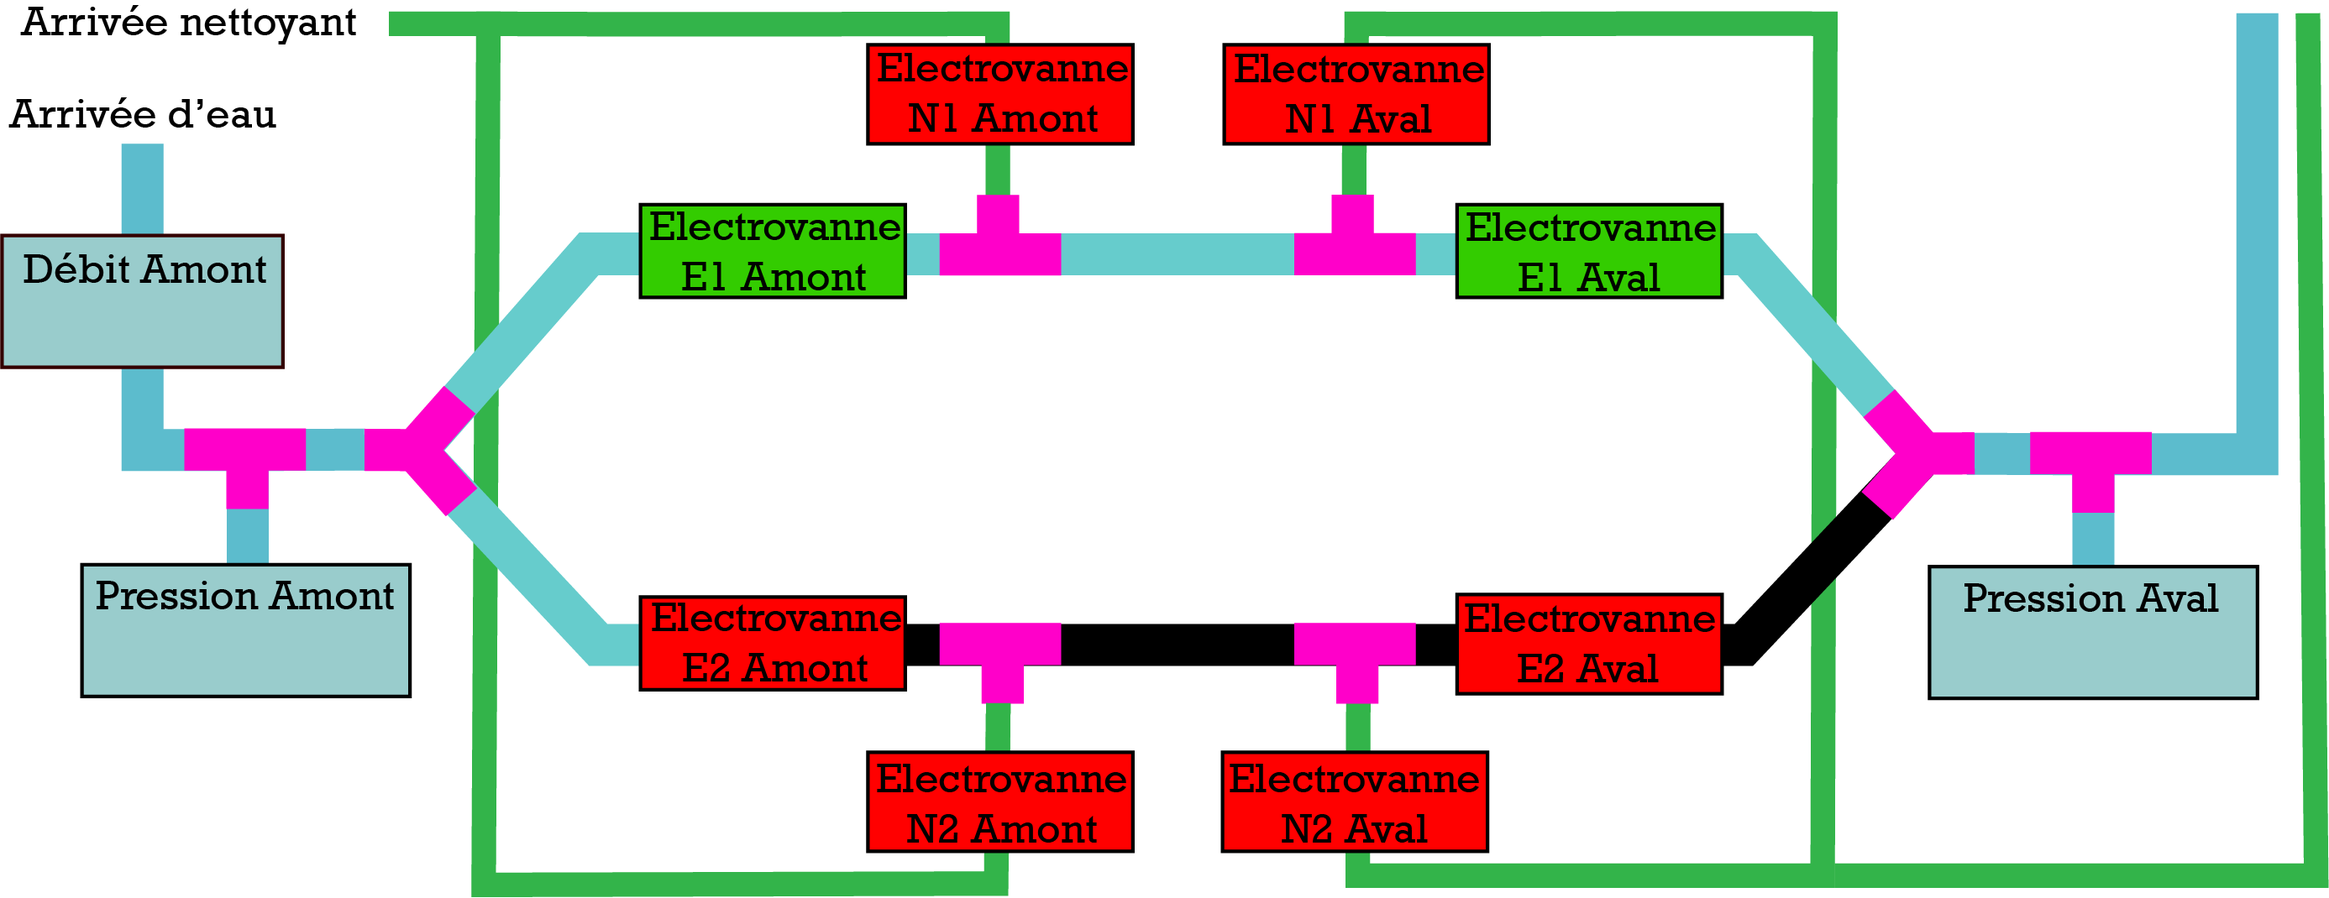
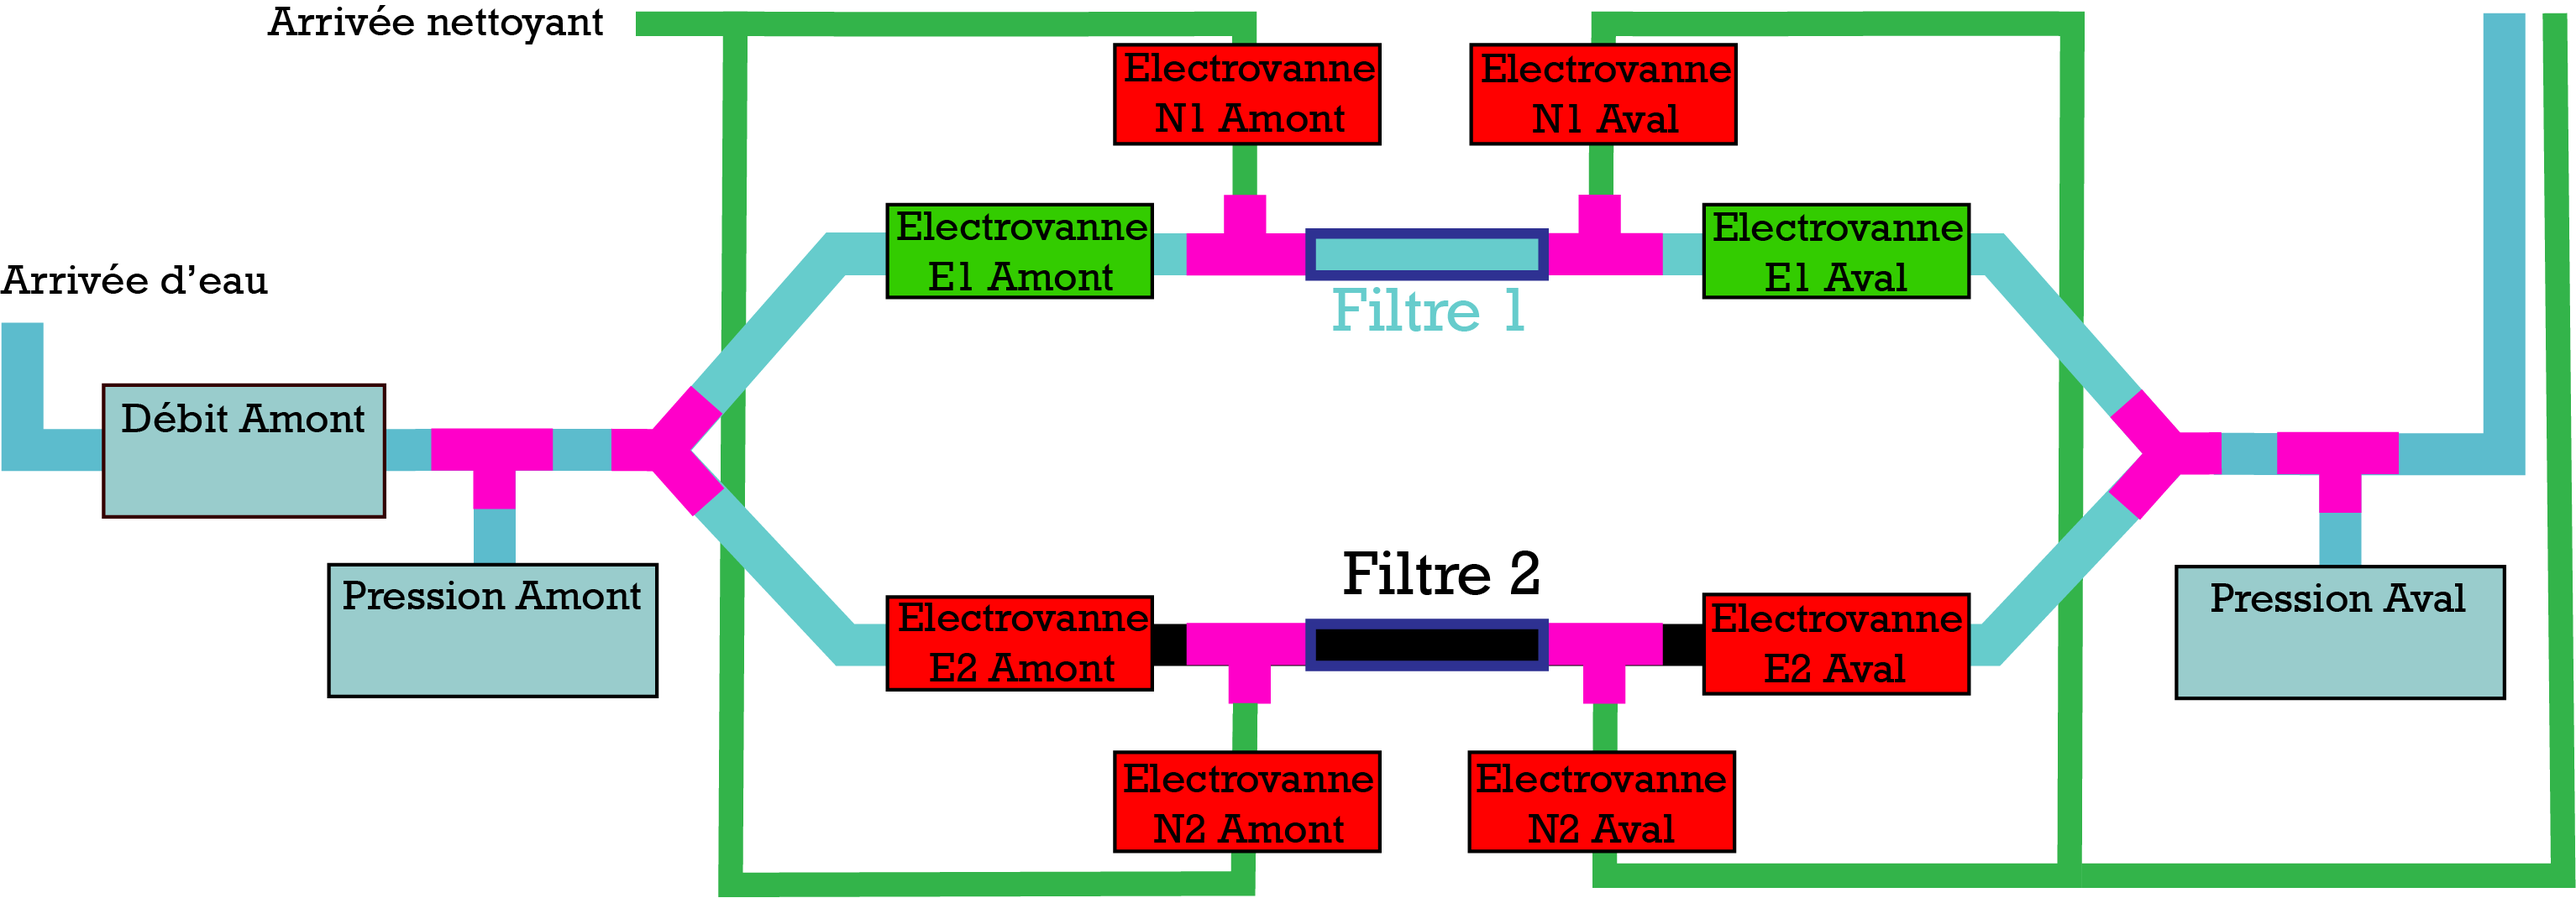
Added Control page

Changed region(s): [[0.0, 0.0, 0.9924, 1.0], [0.9614, 0.0, 0.9924, 0.5243]]

diff --git a/Front-end/src/views/Control.vue b/Front-end/src/views/Control.vue
@@ -1,0 +1,108 @@
+<template>
+  <div class="Overview">
+    <p class="title_cp">Control Pannel</p>
+
+    <div>
+      <p class="title_cp2">Filter 1</p>
+      <hr style="padding: 0;" />
+      <!-- <b-form-select v-model="selected" :options="options" class="mb-3">
+        <template #first>
+          <b-form-select-option :value="null" disabled
+            >-- Please select an option --</b-form-select-option
+          >
+        </template>
+      </b-form-select> -->
+
+      <b-form-group
+        label="Select flow"
+        v-slot="{ ariaDescribedby }"
+        class="left"
+      >
+        <b-form-checkbox-group
+          v-model="selected_F1"
+          :options="options_F1"
+          :aria-describedby="ariaDescribedby"
+          buttons
+          button-variant="primary"
+          size="lg"
+          name="buttons-2"
+          class="center"
+        ></b-form-checkbox-group>
+      </b-form-group>
+
+      <p class="title2">Filter 2</p>
+      <hr style="padding: 0;" />
+      <b-form-group
+        label="Select flow"
+        v-slot="{ ariaDescribedby }"
+        class="left"
+      >
+        <b-form-checkbox-group
+          v-model="selected_F2"
+          :options="options_F2"
+          :aria-describedby="ariaDescribedby"
+          buttons
+          button-variant="primary"
+          size="lg"
+          name="buttons-2"
+          class="center"
+        ></b-form-checkbox-group>
+      </b-form-group>
+
+      <hr style="padding: 0;" />
+      <b-button variant="danger" style="text-align: right" size="lg"
+        >Reboot system</b-button
+      >
+    </div>
+  </div>
+</template>
+
+<script>
+export default {
+  name: "Control",
+  data() {
+    return {
+      selected_F1: "F1_Water",
+      options_F1: [
+        { value: "F1_Water", text: "Water" },
+        { value: "F1_Clean", text: "Cleaning solution" },
+        { value: "F1_None", text: "None" }
+      ],
+      selected_F2: "F2_Clean",
+      options_F2: [
+        { value: "F2_Water", text: "Water" },
+        { value: "F2_Clean", text: "Cleaning solution" },
+        { value: "F2_None", text: "None" }
+      ]
+    };
+  }
+};
+</script>
+
+<style>
+.title_cp {
+  font-family: Monaco, monospace !important;
+  font-size: 30px;
+  font-weight: bold;
+  margin-bottom: -2%;
+}
+
+.title_cp2 {
+  font-family: Monaco, monospace !important;
+  font-size: 25px;
+  text-align: left;
+  margin: 2%;
+  margin-bottom: -2%;
+}
+
+.active {
+  background: rgb(5, 42, 77) !important;
+}
+
+.left {
+  position: left;
+  text-align: left;
+  margin: 2%;
+  margin-top: -1%;
+}
+</style>

diff --git a/Front-end/src/views/Overview.vue b/Front-end/src/views/Overview.vue
@@ -1,8 +1,9 @@
 <template>
   <div class="Overview">
-    <img alt="Diagram" src="../assets/F1_Eau.png" class="diagram" />
+    <p class="title">System overview</p>
+    <img alt="Diagram" src="../assets/F1_Eau_F2_Eau.png" class="diagram" />
     <!-- Absolute positionning of values -->
-    <div class="debit-amont">{{ debit_amont }} L³/s</div>
+    <div class="debit-amont">{{ debit_amont }} M³/s</div>
     <div class="pression-amont">{{ pression_amont }} BAR</div>
     <div class="pression-aval">{{ pression_aval }} BAR</div>
   </div>
@@ -24,7 +25,7 @@ export default {
 <style scoped>
 .diagram {
   max-width: 100%;
-  margin-top: 7%;
+  margin-top: 0%;
 }
 
 .text {
@@ -36,20 +37,21 @@ export default {
 
 .debit-amont {
   position: relative;
-  top: -210px;
+  top: -212px;
   left: -44%;
   margin: 0;
   font-family: Monaco, monospace !important;
   font-weight: bold;
   font-size: 22px;
-  letter-spacing: -4px;
+  letter-spacing: -1px;
+  word-spacing: -5px;
   color: green;
 }
 
 .pression-amont {
   position: relative;
-  top: -132px;
-  left: -316px;
+  top: -136px;
+  left: -315px;
   margin: 0;
   font-family: Monaco, monospace !important;
   font-weight: bold;
@@ -60,13 +62,19 @@ export default {
 
 .pression-aval {
   position: relative;
-  top: -169px;
-  left: 320px;
+  top: -173px;
+  left: 319px;
   margin: 0;
   font-family: Monaco, monospace !important;
   font-weight: bold;
   font-size: 25px;
   word-spacing: -10px;
   color: red;
+}
+
+.title {
+  font-family: Monaco, monospace !important;
+  font-size: 30px;
+  font-weight: bold;
 }
 </style>

diff --git a/Front-end/src/components/Navbar.vue b/Front-end/src/components/Navbar.vue
@@ -2,7 +2,7 @@
   <div class="Navbar">
     <!-- Just an image -->
     <b-navbar variant="info" type="dark">
-      <b-navbar-brand>
+      <b-navbar-brand class="brand">
         <img
           alt="Biostart logo"
           src="../assets/Logo-biostart.png"
@@ -13,6 +13,9 @@
         <router-link to="/monitoring" class="nav-text">Monitoring</router-link>
         <router-link to="/overview" class="nav-text" style="margin-left: 20px"
           >Overview</router-link
+        >
+        <router-link to="/control" class="nav-text" style="margin-left: 20px"
+          >Control</router-link
         >
       </b-navbar-nav>
 
@@ -80,5 +83,9 @@ export default {
   color: #000000 !important;
   font-size: 20px;
   font-family: Monaco, monospace !important;
+}
+
+.brand {
+  margin: 0;
 }
 </style>

diff --git a/Front-end/src/router/index.js b/Front-end/src/router/index.js
@@ -1,6 +1,7 @@
 import Vue from "vue";
 import VueRouter from "vue-router";
 import Monitoring from "../views/Monitoring.vue";
+import Control from "../views/Control.vue";
 
 Vue.use(VueRouter);
 
@@ -23,6 +24,11 @@ const routes = [
     // which is lazy-loaded when the route is visited.
     component: () =>
       import(/* webpackChunkName: "about" */ "../views/Overview.vue")
+  },
+  {
+    path: "/control",
+    name: "control",
+    component: Control
   }
 ];
 
